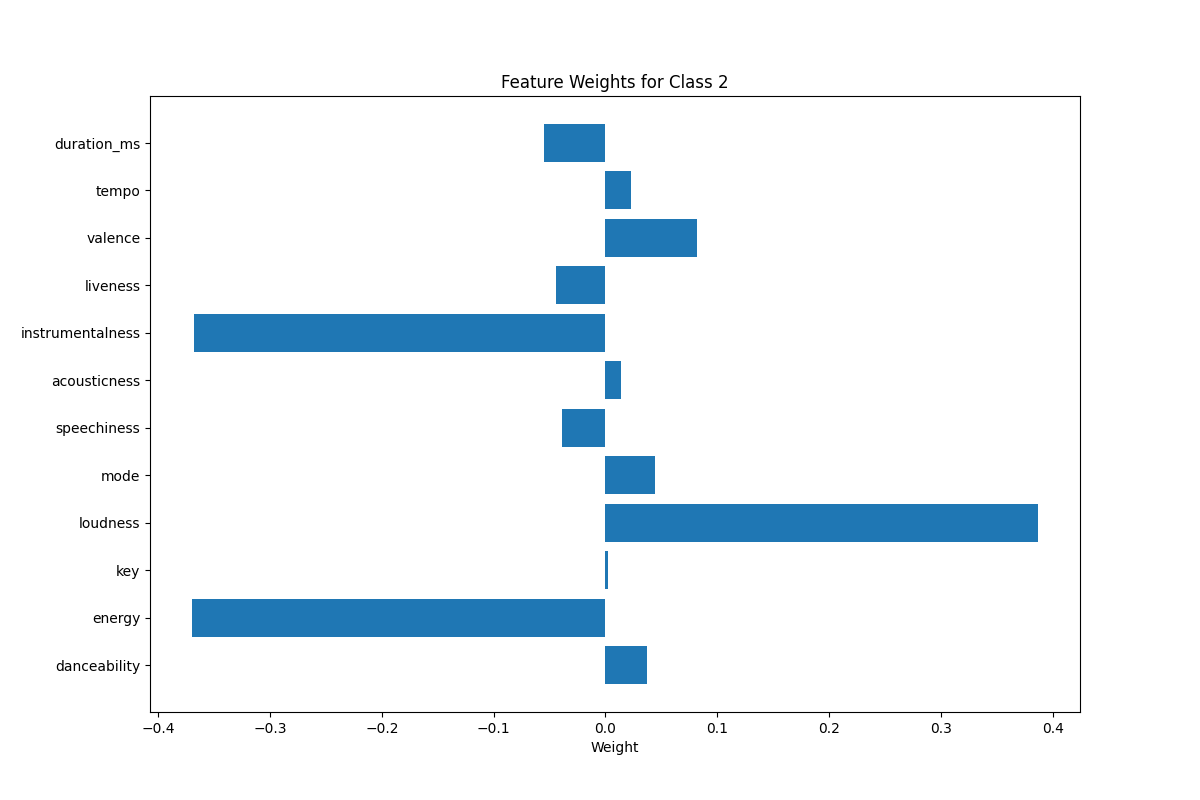
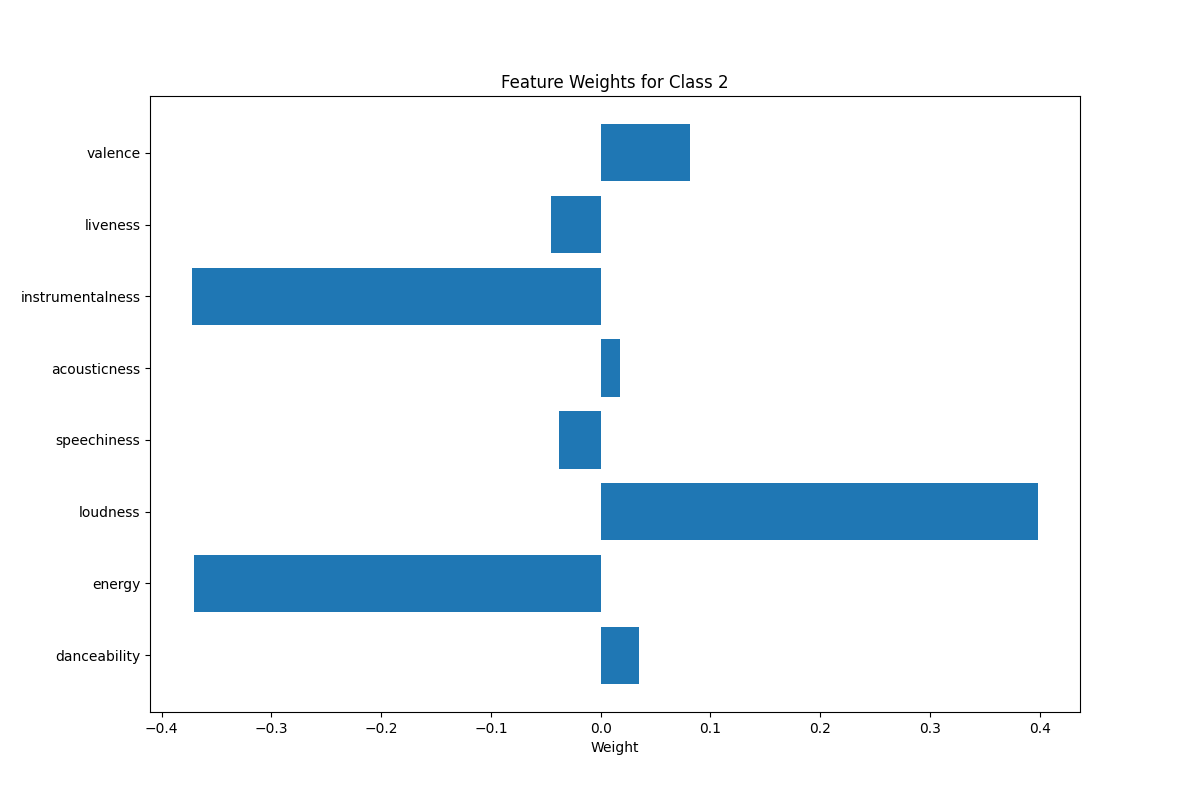
develop

diff --git a/final_try.py b/final_try.py
@@ -21,7 +21,7 @@ def separate_data(data):
     popularity_labels = [0, 1, 2]
     data = data.drop(columns=['track_id', 'track_name', 'track_album_id', 'track_artist', 
                             'playlist_name', 'playlist_genre', 'playlist_subgenre', 
-                            'track_album_name', 'track_album_release_date', 'playlist_id'])
+                            'track_album_name', 'track_album_release_date', 'playlist_id','tempo', 'duration_ms', 'key', 'mode'])
     data['track_popularity'] = pd.cut(data['track_popularity'], bins=popularity_bins, labels=popularity_labels, include_lowest=True, right=True)
 
     sampled_data = pd.DataFrame()
